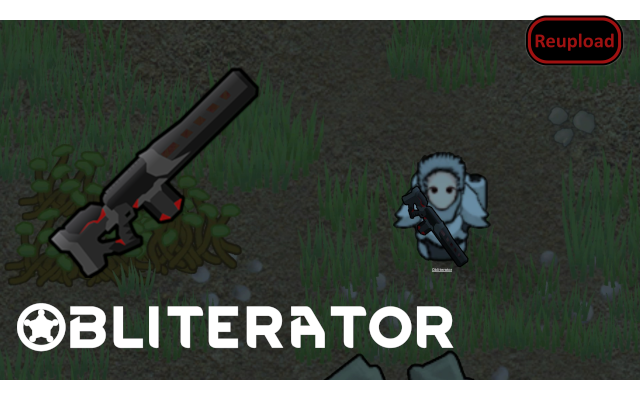
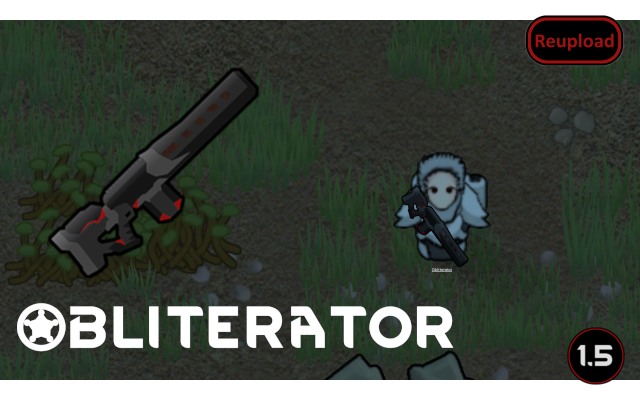
Mod updated for 1.5 and passed autotests Used DeepL to update translations for ChineseSimplified, French, German

Changed region(s): [[0.875, 0.81, 1.0, 0.96]]

diff --git a/Source/Obliterator/ObliteratorMod.cs b/Source/Obliterator/ObliteratorMod.cs
@@ -1,4 +1,5 @@
-using UnityEngine;
+using Mlie;
+using UnityEngine;
 using Verse;
 
 namespace VVO_Obliterator;
@@ -6,6 +7,7 @@ namespace VVO_Obliterator;
 public class ObliteratorMod : Mod
 {
     public static ObliteratorMod instance;
+    private static string currentVersion;
 
     /// <summary>
     ///     A reference to our settings.
@@ -20,6 +22,7 @@ public class ObliteratorMod : Mod
     {
         instance = this;
         settings = GetSettings<ObliteratorSettings>();
+        currentVersion = VersionFromManifest.GetVersionFromModMetaData(content.ModMetaData);
     }
 
     /// <summary>
@@ -34,6 +37,14 @@ public class ObliteratorMod : Mod
             "VVO_Obliterator_ShowAlertTT".Translate());
         listingStandard.Label("VVO_Obliterator_Chance".Translate(settings.destroyBodyPartChance.ToStringPercent()));
         settings.destroyBodyPartChance = listingStandard.Slider(settings.destroyBodyPartChance, 0f, 1f);
+        if (currentVersion != null)
+        {
+            listingStandard.Gap();
+            GUI.contentColor = Color.gray;
+            listingStandard.Label("VVO_Obliterator_CurrentModVersion".Translate(currentVersion));
+            GUI.contentColor = Color.white;
+        }
+
         listingStandard.End();
         base.DoSettingsWindowContents(inRect);
     }

diff --git a/README.md b/README.md
@@ -25,9 +25,13 @@ By default the chance to destroy a body part is set to 100% on hit, but this can
 
 -  See if the the error persists if you just have this mod and its requirements active.
 -  If not, try adding your other mods until it happens again.
--  Post your error-log using https://steamcommunity.com/workshop/filedetails/?id=818773962]HugsLib and command Ctrl+F12
+-  Post your error-log using https://steamcommunity.com/workshop/filedetails/?id=818773962]HugsLib or the standalone https://steamcommunity.com/sharedfiles/filedetails/?id=2873415404]Uploader and command Ctrl+F12
 -  For best support, please use the Discord-channel for error-reporting.
 -  Do not report errors by making a discussion-thread, I get no notification of that.
 -  If you have the solution for a problem, please post it to the GitHub repository.
+-  Use https://github.com/RimSort/RimSort/releases/latest]RimSort to sort your mods
 
+
+
+https://steamcommunity.com/sharedfiles/filedetails/changelog/2988894271]![Image](https://img.shields.io/github/v/release/emipa606/Obliterator?label=latest%20version&style=plastic&color=9f1111&labelColor=black)
 
